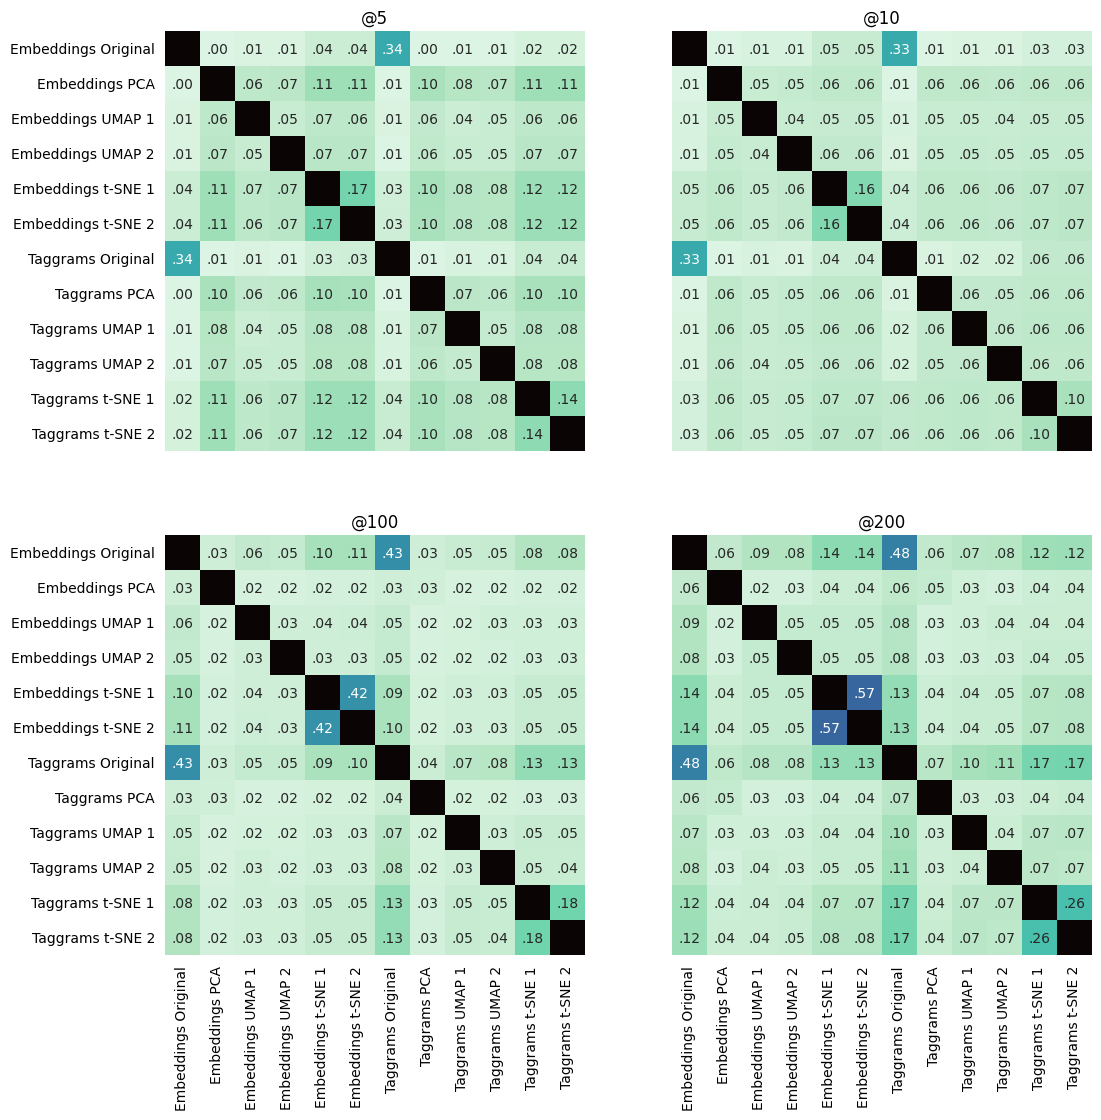
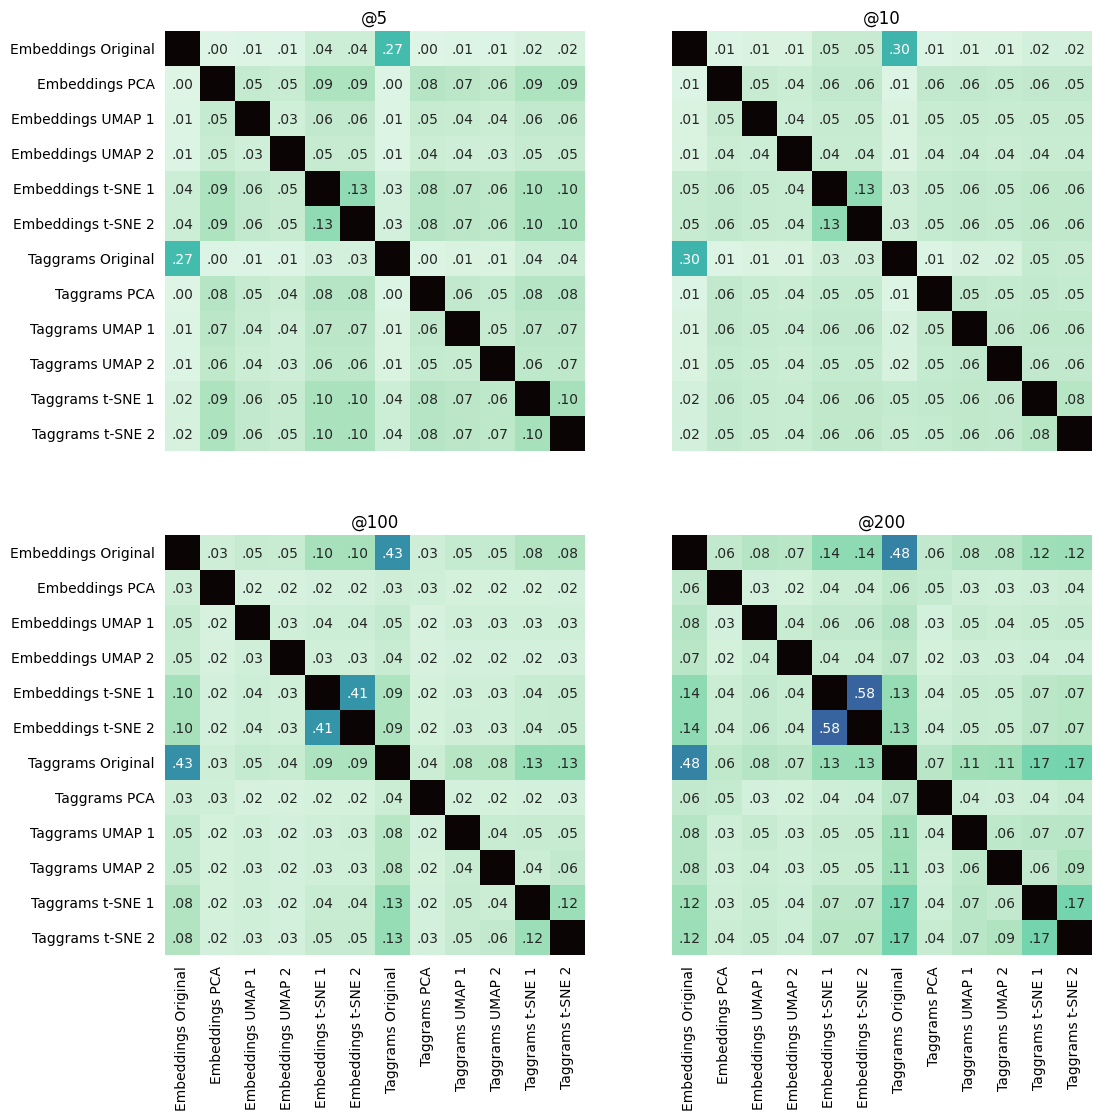
Fix projection figures

Changed region(s): [[0.9264, 0.7812, 1.0, 0.875], [0.4632, 0.7812, 0.5559, 0.875], [0.2779, 0.125, 0.3397, 0.2188]]

diff --git a/projections/table.md b/projections/table.md
@@ -1,5 +1,7 @@
 # Projections: more figures
 
+*Due to a bug in the code, the figure in the paper is slightly different from the euclidean-small presented here. This doesn't change the discussion significantly, and the figure will be updated in a camera-ready version*
+
 | Distance \ Dataset | Small | Large |
 | --- | --- | --- | 
 | Euclidean | ![Similarity matrix](euclidean-small.png) | ![Similarity matrix](euclidean-large.png)  | 

diff --git a/projections/index.md b/projections/index.md
@@ -1,5 +1,7 @@
 # Projections: more figures
 
+*Due to a bug in the code, the figure in the paper is slightly different from the euclidean-small presented here. This doesn't change the discussion significantly, and the figure will be updated in a camera-ready version*
+
 ## Euclidean similarity, small dataset (presented in the paper)
 ![Similarity matrix](euclidean-small.png)
 
